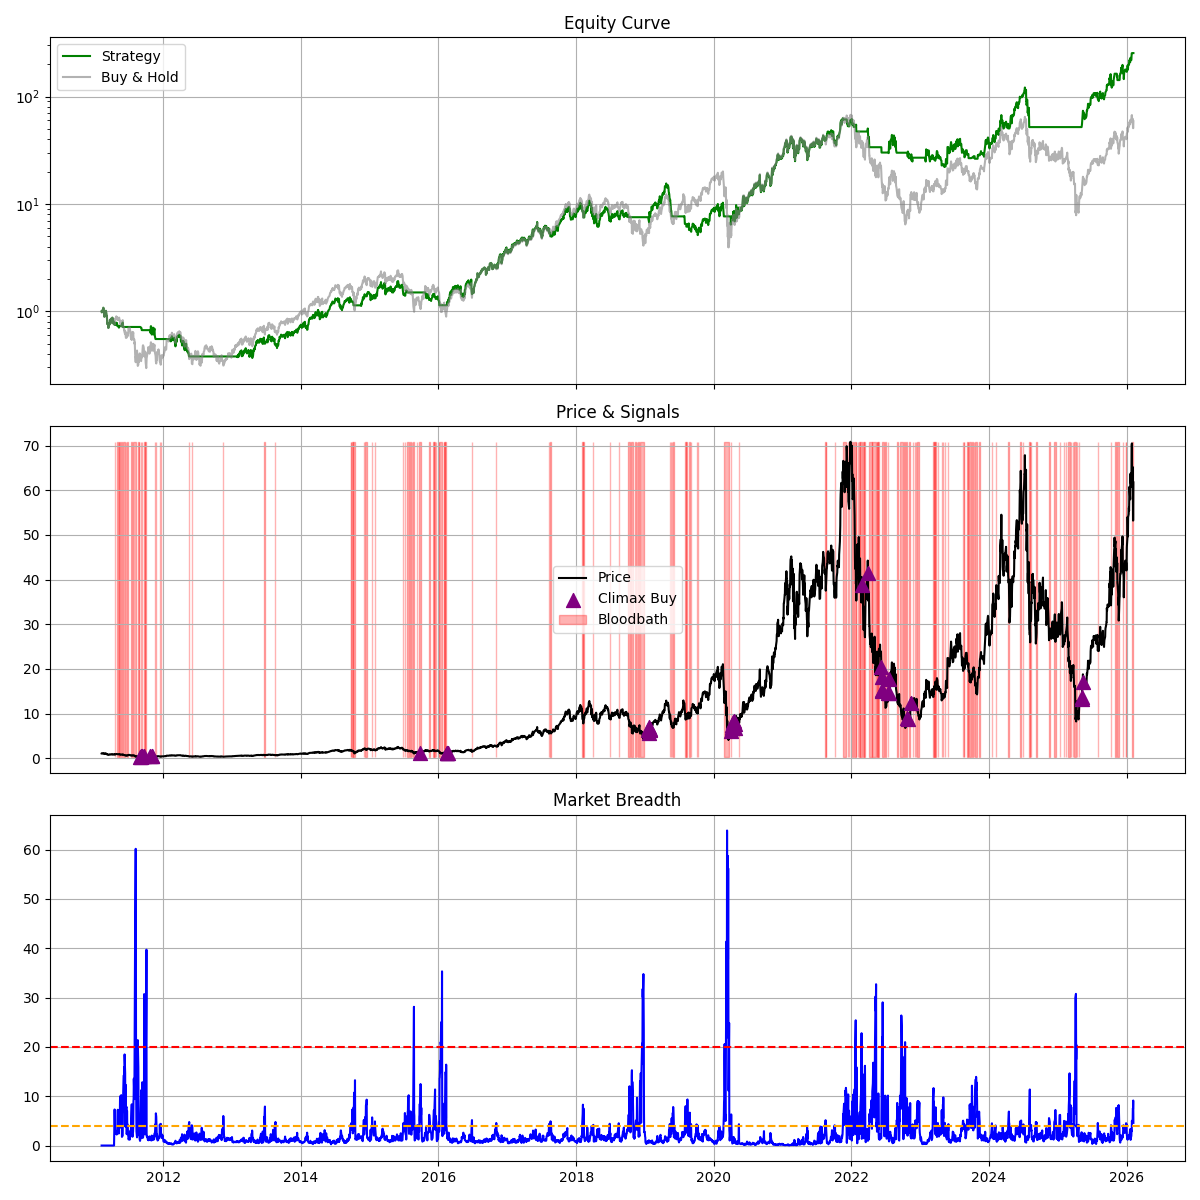
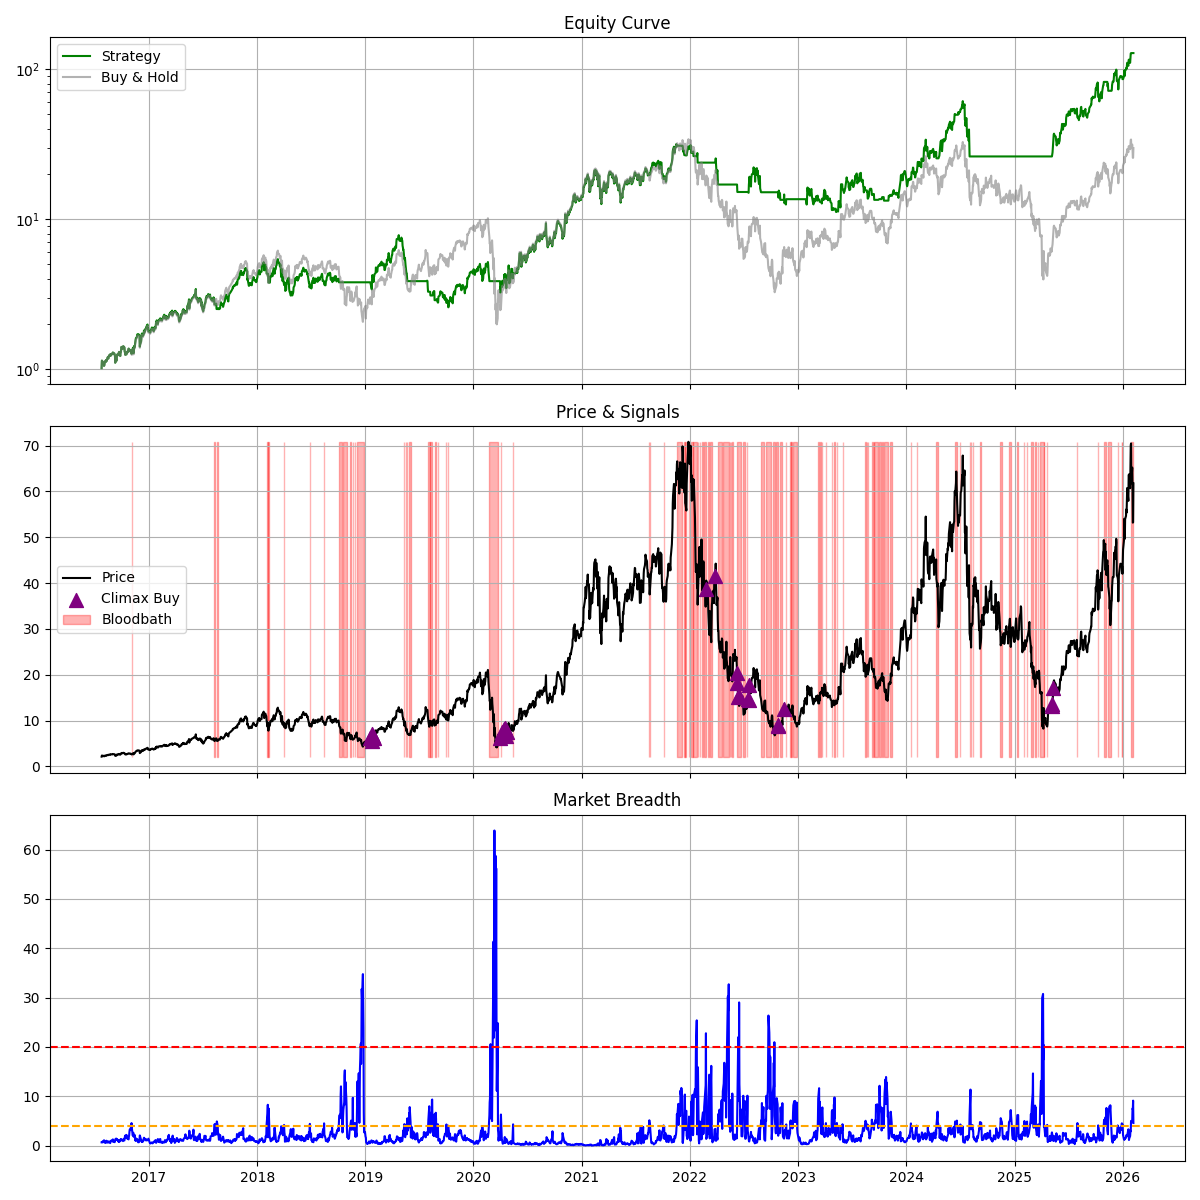
Backtest Custom SuperTrend + Daily Climax from 2016-07-22

diff --git a/backtest_pmax_vince_custom.py b/backtest_pmax_vince_custom.py
@@ -1,0 +1,274 @@
+import yfinance as yf
+import pandas as pd
+import numpy as np
+import pandas_ta as ta
+import matplotlib.pyplot as plt
+import mplfinance as mpf
+from datetime import datetime, timedelta
+import os
+import sys
+
+# Constants
+BREADTH_FILE = 'market_breadth_history.csv'
+SOX_TICKER = '^SOX'
+SOXL_TICKER = 'SOXL'
+
+# PINE SCRIPT PARAMS (SuperTrend)
+ST_PERIOD = 10
+ST_MULTIPLIER = 3.0
+
+# CLIMAX LOGIC (Daily)
+CLIMAX_THRESHOLD_DAILY = 20.0
+BLOODBATH_THRESHOLD_DAILY = 4.0
+ENTRY_LAG_DAYS = 22
+
+# Start Date
+START_DATE_STR = '2016-07-22'
+
+def load_breadth_data():
+    if not os.path.exists(BREADTH_FILE):
+        print(f"Error: {BREADTH_FILE} not found.")
+        return None
+
+    df = pd.read_csv(BREADTH_FILE)
+    if 'Unnamed: 0' in df.columns:
+        df.rename(columns={'Unnamed: 0': 'Date'}, inplace=True)
+    if 'Date' not in df.columns and df.index.name != 'Date':
+         df.rename(columns={df.columns[0]: 'Date'}, inplace=True)
+
+    if 'Date' in df.columns:
+        df['Date'] = pd.to_datetime(df['Date'])
+        df.set_index('Date', inplace=True)
+
+    df.sort_index(inplace=True)
+    return df
+
+def resample_to_weekly(df):
+    """
+    Resamples daily data to weekly bars (Friday Close).
+    """
+    logic = {
+        'Open': 'first',
+        'High': 'max',
+        'Low': 'min',
+        'Close': 'last',
+        'Volume': 'sum'
+    }
+    logic = {k: v for k, v in logic.items() if k in df.columns}
+    df_w = df.resample('W-FRI').agg(logic).dropna()
+    return df_w
+
+def calculate_kivanc_supertrend(df, period=10, multiplier=3.0):
+    """
+    Implements KivancOzbilgic's SuperTrend Logic.
+    """
+    # 1. Calculate ATR and Source
+    # pandas_ta atr uses RMA smoothing by default
+    atr = ta.atr(df['High'], df['Low'], df['Close'], length=period)
+    src = (df['High'] + df['Low']) / 2.0
+
+    # 2. Arrays for iteration
+    n = len(df)
+    close = df['Close'].values
+    atr_val = atr.values
+    src_val = src.values
+
+    up = np.zeros(n)
+    dn = np.zeros(n)
+    trend = np.zeros(n) # 1 for Up, -1 for Down
+
+    # Initialize
+    start_idx = period
+    trend[0:start_idx] = 1
+
+    for i in range(1, n):
+        if np.isnan(atr_val[i]):
+            continue
+
+        # Basic Bands
+        basic_up = src_val[i] - (multiplier * atr_val[i])
+        basic_dn = src_val[i] + (multiplier * atr_val[i])
+
+        # Recursive Bands
+        prev_up = up[i-1]
+        prev_close = close[i-1]
+
+        if prev_close > prev_up:
+            up[i] = max(basic_up, prev_up)
+        else:
+            up[i] = basic_up
+
+        prev_dn = dn[i-1]
+
+        if prev_close < prev_dn:
+            dn[i] = min(basic_dn, prev_dn)
+        else:
+            dn[i] = basic_dn
+
+        # Trend
+        prev_trend = trend[i-1]
+        curr_close = close[i]
+
+        if prev_trend == -1 and curr_close > prev_dn:
+            trend[i] = 1
+        elif prev_trend == 1 and curr_close < prev_up:
+            trend[i] = -1
+        else:
+            trend[i] = prev_trend
+
+    return pd.Series(trend, index=df.index), pd.Series(up, index=df.index), pd.Series(dn, index=df.index)
+
+def run_backtest():
+    # 1. Load Data
+    print("Loading Breadth Data...")
+    breadth_df = load_breadth_data()
+    if breadth_df is None: return
+
+    print("Fetching Price Data...")
+    start_dt = pd.to_datetime(START_DATE_STR)
+    fetch_start = start_dt - timedelta(days=365) # Warmup
+
+    sox = yf.download(SOX_TICKER, start=fetch_start, progress=False)
+    soxl = yf.download(SOXL_TICKER, start=fetch_start, progress=False)
+
+    # Fix MultiIndex/Timezone
+    if isinstance(sox.columns, pd.MultiIndex): sox.columns = sox.columns.get_level_values(0)
+    if isinstance(soxl.columns, pd.MultiIndex): soxl.columns = soxl.columns.get_level_values(0)
+    if sox.index.tz is not None: sox.index = sox.index.tz_localize(None)
+    if soxl.index.tz is not None: soxl.index = soxl.index.tz_localize(None)
+    if breadth_df.index.tz is not None: breadth_df.index = breadth_df.index.tz_localize(None)
+
+    # 2. Climax Logic (Daily)
+    if 'New_Lows_Ratio' not in breadth_df.columns:
+        breadth_df['New_Lows_Ratio'] = (breadth_df['New_Lows'] / breadth_df['Total_Issues']) * 100
+
+    breadth_df['Is_Climax'] = breadth_df['New_Lows_Ratio'] >= CLIMAX_THRESHOLD_DAILY
+    breadth_df['Is_Bloodbath'] = breadth_df['New_Lows_Ratio'] >= BLOODBATH_THRESHOLD_DAILY
+    breadth_df['Climax_Entry'] = breadth_df['Is_Climax'].shift(ENTRY_LAG_DAYS).fillna(False)
+
+    # 3. SuperTrend Logic (Weekly)
+    sox_w = resample_to_weekly(sox)
+    st_dir_w, st_up_w, st_dn_w = calculate_kivanc_supertrend(sox_w, period=ST_PERIOD, multiplier=ST_MULTIPLIER)
+    sox_w['ST_Dir'] = st_dir_w
+    sox_w['PMax_Line'] = np.where(st_dir_w == 1, st_dn_w, st_up_w)
+
+    # Resample to Daily
+    st_daily = sox_w['ST_Dir'].resample('D').ffill()
+
+    # 4. Simulation Setup
+    df = pd.DataFrame(index=soxl.index)
+    df = df.join(soxl[['Open', 'Close']], how='inner')
+    df = df.join(breadth_df[['New_Lows_Ratio', 'Climax_Entry', 'Is_Bloodbath']], how='left')
+    df = df.join(st_daily.rename('ST_Dir'), how='left')
+
+    # Filter Start
+    df = df[df.index >= start_dt].copy()
+    df.ffill(inplace=True)
+    df.dropna(inplace=True)
+
+    pos = 0
+    equity = 1.0
+    equity_curve = [1.0]
+    log_data = []
+
+    if not df.empty and df['ST_Dir'].iloc[0] == 1:
+        pos = 1
+
+    for i in range(1, len(df)):
+        date = df.index[i]
+        price = df['Close'].iloc[i]
+        prev_price = df['Close'].iloc[i-1]
+
+        # Return
+        ret = (price - prev_price) / prev_price
+        if pos == 1:
+            equity *= (1 + ret)
+        equity_curve.append(equity)
+
+        # Signals
+        climax = df['Climax_Entry'].iloc[i]
+        bloodbath = df['Is_Bloodbath'].iloc[i]
+        st_dir = df['ST_Dir'].iloc[i]
+        prev_st = df['ST_Dir'].iloc[i-1]
+
+        next_pos = pos
+
+        if bloodbath:
+            next_pos = 0 # Safety first
+        elif pos == 0:
+            if climax:
+                next_pos = 1 # Catch Bottom
+            elif st_dir == 1:
+                next_pos = 1 # Trend Follow
+        elif pos == 1:
+            # Exit Logic
+            # Exit if ST flips 1 -> -1
+            if prev_st == 1 and st_dir == -1:
+                next_pos = 0
+
+        pos = next_pos
+
+        log_data.append({
+            'Date': date,
+            'Price': price,
+            'Position': pos,
+            'Equity': equity,
+            'Climax': climax,
+            'Bloodbath': bloodbath
+        })
+
+    # 6. Report
+    results = pd.DataFrame(log_data)
+    if results.empty:
+        print("No results.")
+        return
+
+    results.set_index('Date', inplace=True)
+
+    bh = (df['Close'] / df['Close'].iloc[0]).iloc[1:]
+
+    strat_ret = (results['Equity'].iloc[-1] - 1) * 100
+    bh_ret = (bh.iloc[-1] - 1) * 100
+
+    print("\n" + "="*50)
+    print(f"BACKTEST: Daily Climax + Weekly Kivanc SuperTrend")
+    print(f"Period: {results.index[0].date()} to {results.index[-1].date()}")
+    print("="*50)
+    print(f"Strategy: {strat_ret:.2f}%")
+    print(f"Buy & Hold: {bh_ret:.2f}%")
+    print("="*50)
+
+    # 7. Chart
+    # Plotting Equity
+    fig, axes = plt.subplots(3, 1, figsize=(12, 12), sharex=True)
+
+    # Ax0: Equity
+    axes[0].plot(results.index, results['Equity'], label='Strategy', color='green')
+    axes[0].plot(results.index, bh, label='Buy & Hold', color='gray', alpha=0.6)
+    axes[0].set_title('Equity Curve')
+    axes[0].set_yscale('log')
+    axes[0].legend()
+    axes[0].grid(True)
+
+    # Ax1: Price & Signals
+    axes[1].plot(df.index[1:], df['Close'][1:], color='black', label='Price')
+    climax_dates = results[results['Climax']].index
+    axes[1].scatter(climax_dates, df.loc[climax_dates]['Close'], color='purple', marker='^', s=100, label='Climax Buy', zorder=5)
+    axes[1].fill_between(results.index, df['Close'].min(), df['Close'].max(), where=results['Bloodbath'], color='red', alpha=0.3, label='Bloodbath')
+    axes[1].set_title('Price & Signals')
+    axes[1].legend()
+    axes[1].grid(True)
+
+    # Ax2: Breadth
+    axes[2].plot(df.index[1:], df['New_Lows_Ratio'][1:], color='blue', label='New Lows %')
+    axes[2].axhline(20, color='red', linestyle='--')
+    axes[2].axhline(4, color='orange', linestyle='--')
+    axes[2].set_title('Market Breadth')
+    axes[2].grid(True)
+
+    plt.tight_layout()
+    plt.savefig('pmax_vince_williams_result.png')
+    print("Chart saved.")
+
+if __name__ == "__main__":
+    run_backtest()
